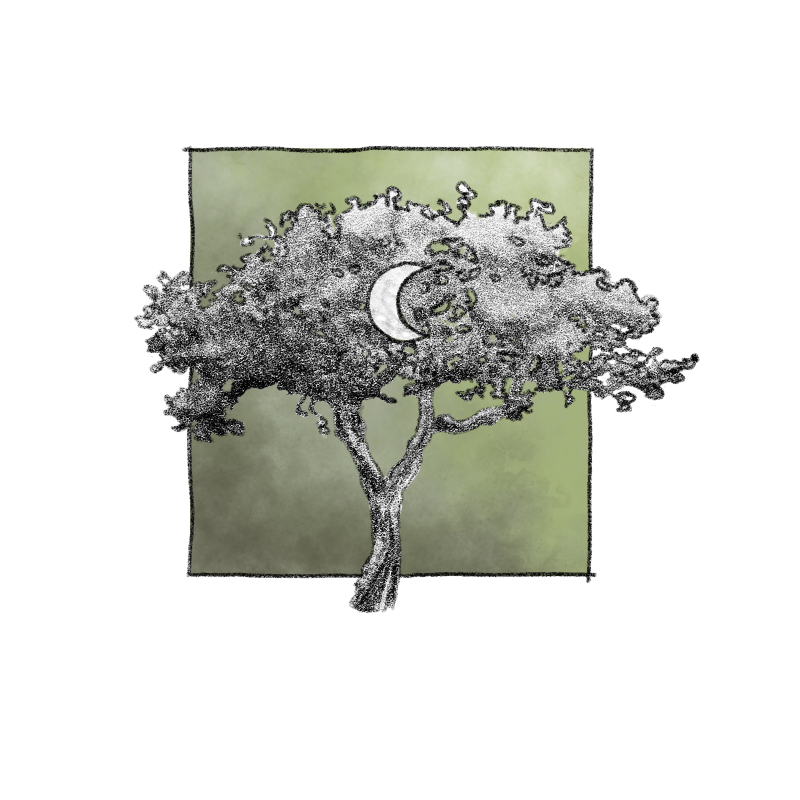
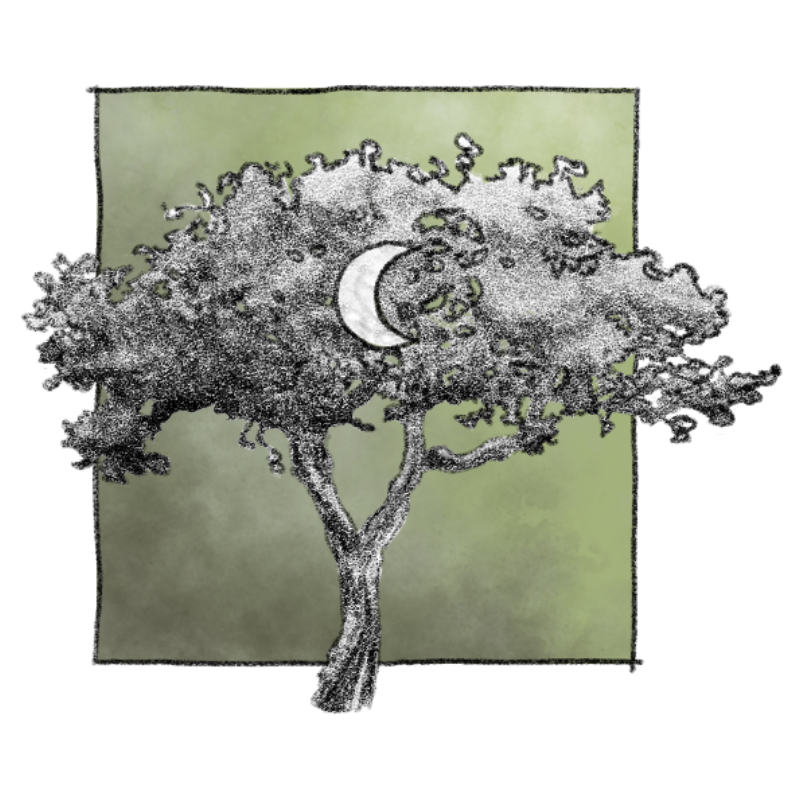
update with Julie's art

diff --git a/_recommendations/intersectionality.md b/_recommendations/intersectionality.md
@@ -1,14 +1,14 @@
 ---
 layout: page
 title: Intersectionality
-img: assets/img/illustrations/Intersectionality.png
+img: assets/img/illustrations/Cloud_spatter.png
 importance: 6
 category: 
 ---
 
 <div class="row">
     <div class="col-sm mt-3 mt-md-0">
-        {% include figure.html path="assets/img/illustrations/Intersectionality.png" title="Intersectionality by Julie Malewicz" class="img-fluid rounded z-depth-1" %}
+        {% include figure.html path="assets/img/illustrations/Cloud_spatter.png" title="Cloud by Julie Malewicz" class="img-fluid rounded z-depth-1" %}
     </div>
 </div>
 <!-- <div class="caption">
